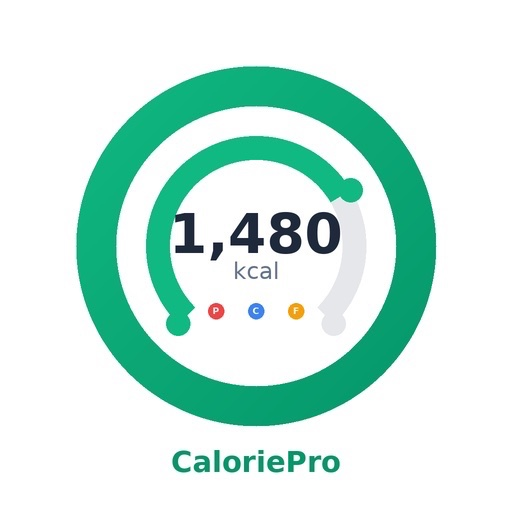
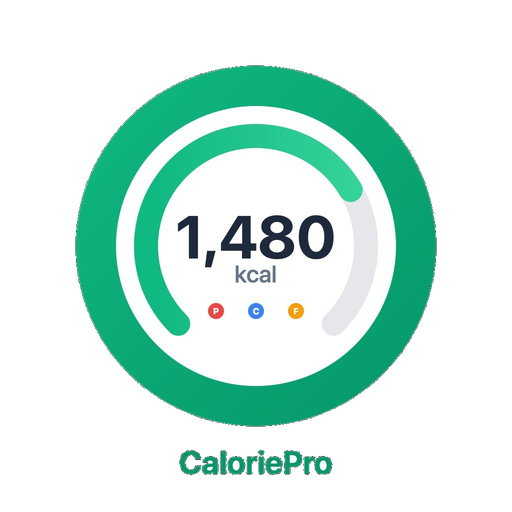
Latest design changes

diff --git a/changelog.html b/changelog.html
@@ -68,7 +68,7 @@
 
     <div class="release latest">
         <div class="release-header">
-            <span class="version-num">v1.7</span>
+            <span class="version-num">v1.0</span>
             <span class="tag tag-latest">Latest</span>
             <span class="version-date">February 2026</span>
         </div>
@@ -109,7 +109,7 @@
 
     <div class="release">
         <div class="release-header">
-            <span class="version-num">v1.6</span>
+            <span class="version-num">v0.8</span>
             <span class="tag tag-major">Major</span>
             <span class="version-date">February 2026</span>
         </div>
@@ -130,7 +130,7 @@
 
     <div class="release">
         <div class="release-header">
-            <span class="version-num">v1.5</span>
+            <span class="version-num">v0.7</span>
             <span class="version-date">February 2026</span>
         </div>
         <div class="changes">
@@ -149,7 +149,7 @@
 
     <div class="release">
         <div class="release-header">
-            <span class="version-num">v1.0 – v1.4</span>
+            <span class="version-num">v0.2 – v0.6</span>
             <span class="version-date">January – February 2026</span>
         </div>
         <div class="changes">
@@ -160,7 +160,7 @@
                     <li>Exercise logging with 400+ exercises and MET calculations</li>
                     <li>Weight tracking with trend charts</li>
                     <li>Water tracking with daily goals</li>
-                    <li>Intermittent fasting timer <span style="color:#f59e0b;font-size:0.75rem;font-weight:600;">(removed in v1.7)</span></li>
+                    <li>Intermittent fasting timer <span style="color:#f59e0b;font-size:0.75rem;font-weight:600;">(removed in v1.0)</span></li>
                     <li>Achievements and XP levelling system</li>
                     <li>Calendar view with date navigation</li>
                     <li>Reports with PDF, Excel, CSV, and JSON export</li>

diff --git a/index.html b/index.html
@@ -60,8 +60,8 @@
         }
         .hero-content { position: relative; z-index: 1; text-align: center; max-width: 720px; }
         .hero-logo {
-            width: 130px; height: 130px; margin: 0 auto 32px;
-            filter: drop-shadow(0 8px 24px rgba(16,185,129,0.3));
+            width: 180px; height: 180px; margin: 0 auto 36px;
+            filter: drop-shadow(0 12px 32px rgba(16,185,129,0.35));
             animation: float 6s ease-in-out infinite;
         }
         @keyframes float { 0%,100%{ transform: translateY(0); } 50%{ transform: translateY(-12px); } }
@@ -236,7 +236,7 @@
 <section class="hero">
     <div class="hero-grid"></div>
     <div class="hero-content">
-        <img src="icon-192.png" alt="CaloriePro" class="hero-logo">
+        <img src="icon-1024.png" alt="CaloriePro" class="hero-logo">
         <h1>Track your nutrition.<br><span class="accent">Keep your privacy.</span></h1>
         <p>CaloriePro is a privacy-first, offline calorie and macro tracker with 5,000+ UK foods and 400+ exercises. No ads. No account. No cloud. Your data never leaves your device.</p>
         <div class="hero-cta">
@@ -438,10 +438,11 @@
 </section>
 
 <!-- FOOTER -->
+
 <footer>
     <div class="footer-links">
-        <a href="faq.html">FAQ</a>
         <a href="support.html">Support</a>
+        <a href="faq.html">FAQ</a>
         <a href="changelog.html">Changelog</a>
         <a href="privacy.html">Privacy Policy</a>
         <a href="terms.html">Terms of Service</a>

diff --git a/faq.html b/faq.html
@@ -70,7 +70,10 @@
 
         <div class="faq-item">
             <div class="faq-q">How much does CaloriePro cost? <span class="faq-arrow">▼</span></div>
-            <div class="faq-a"><p>CaloriePro is available as a one-time purchase from the App Store. There are no ads, no subscriptions, no in-app purchases, and your data is never collected or sold. You pay once and get every feature — no hidden costs.</p></div>
+            <div class="faq-a">
+                <p>CaloriePro is available as a <strong>one-off payment</strong> from the App Store. That single purchase gives you the complete base app — calorie and macro tracking, 5,000+ UK foods, 400+ exercises, weight tracking, water tracking, reports and export, achievements, calendar, custom foods, mood tracking, themes, backup and restore, and full offline support. No ads, no data collection.</p>
+                <p>In the future, we may introduce optional premium features available as a separate one-off in-app purchase or subscription. These would be clearly identified add-ons that go beyond the base app — <strong>your existing features will never be locked behind a paywall</strong>. Everything listed above is what you get for the base price, and it's yours to keep forever.</p>
+            </div>
         </div>
 
         <div class="faq-item">

diff --git a/support.html b/support.html
@@ -92,7 +92,7 @@
         <div class="icon">📧</div>
         <h2>Contact Us</h2>
         <p>Have a question, found a bug, or want to suggest a feature? Drop us an email and we'll get back to you.</p>
-        <a href="mailto:caloriepro@gmail.com" class="btn btn-primary">Email caloriepro@gmail.com</a>
+        <a href="mailto:caloriepro@gmail.com">caloriepro@gmail.com</a>
         <p class="response-note">We typically respond within 24–48 hours</p>
     </div>
 

diff --git a/privacy.html b/privacy.html
@@ -111,6 +111,7 @@
     </div>
     <p class="date">Last Updated: February 2026</p>
 </div>
+
 <footer>
     <div class="footer-links">
         <a href="index.html">Home</a>
@@ -120,5 +121,6 @@
     </div>
     <p class="footer-copy">&copy; 2025–2026 Super Duper Software UK. All rights reserved.</p>
 </footer>
+
 </body>
 </html>

diff --git a/terms.html b/terms.html
@@ -127,6 +127,7 @@
     </div>
     <p class="date">Last Updated: February 2026</p>
 </div>
+
 <footer>
     <div class="footer-links">
         <a href="index.html">Home</a>
@@ -136,5 +137,6 @@
     </div>
     <p class="footer-copy">&copy; 2025–2026 Super Duper Software UK. All rights reserved.</p>
 </footer>
+
 </body>
 </html>
